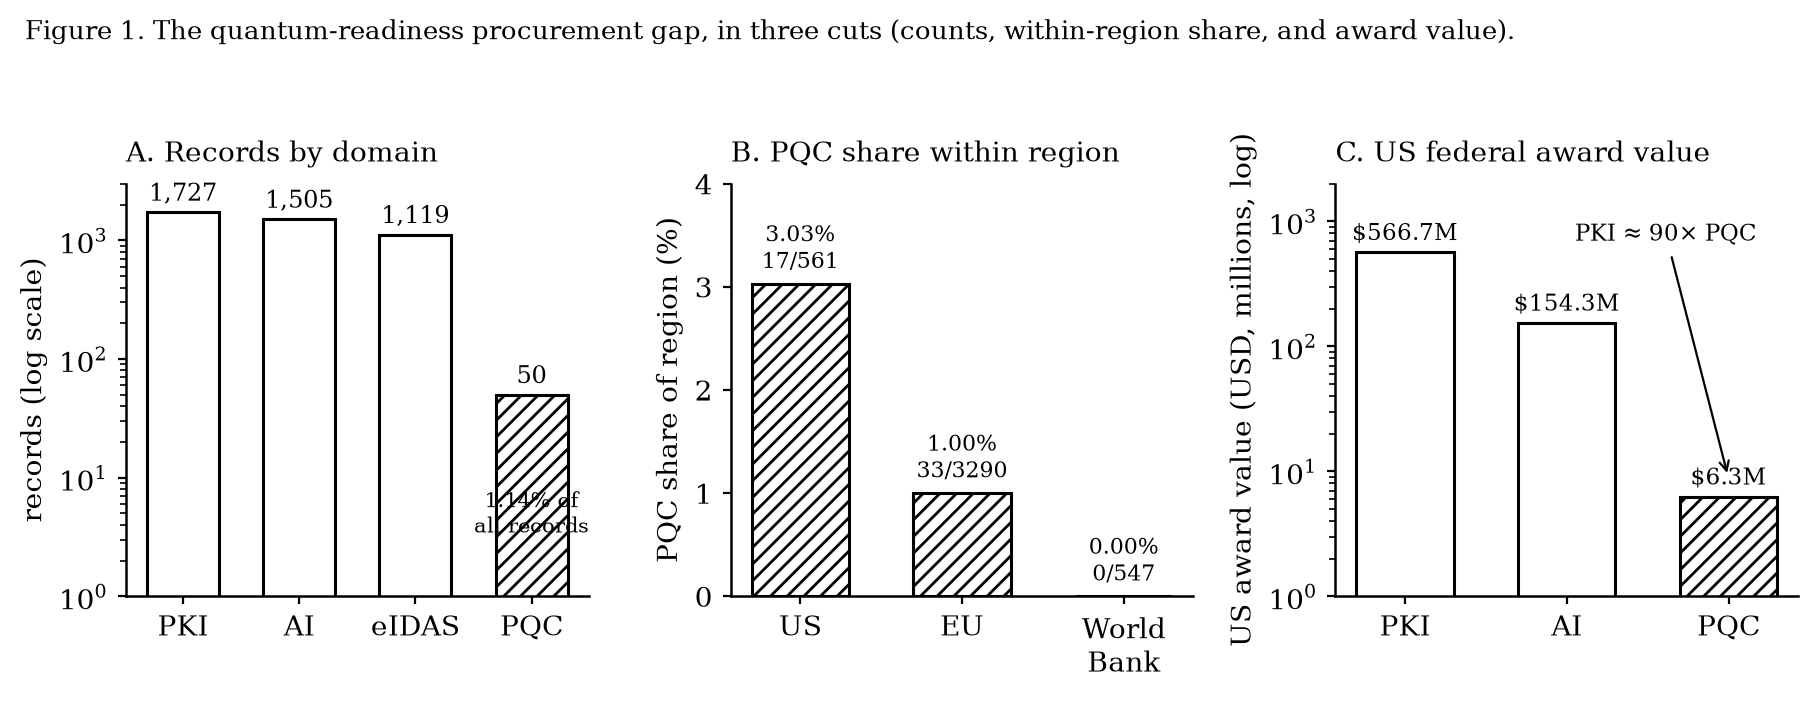
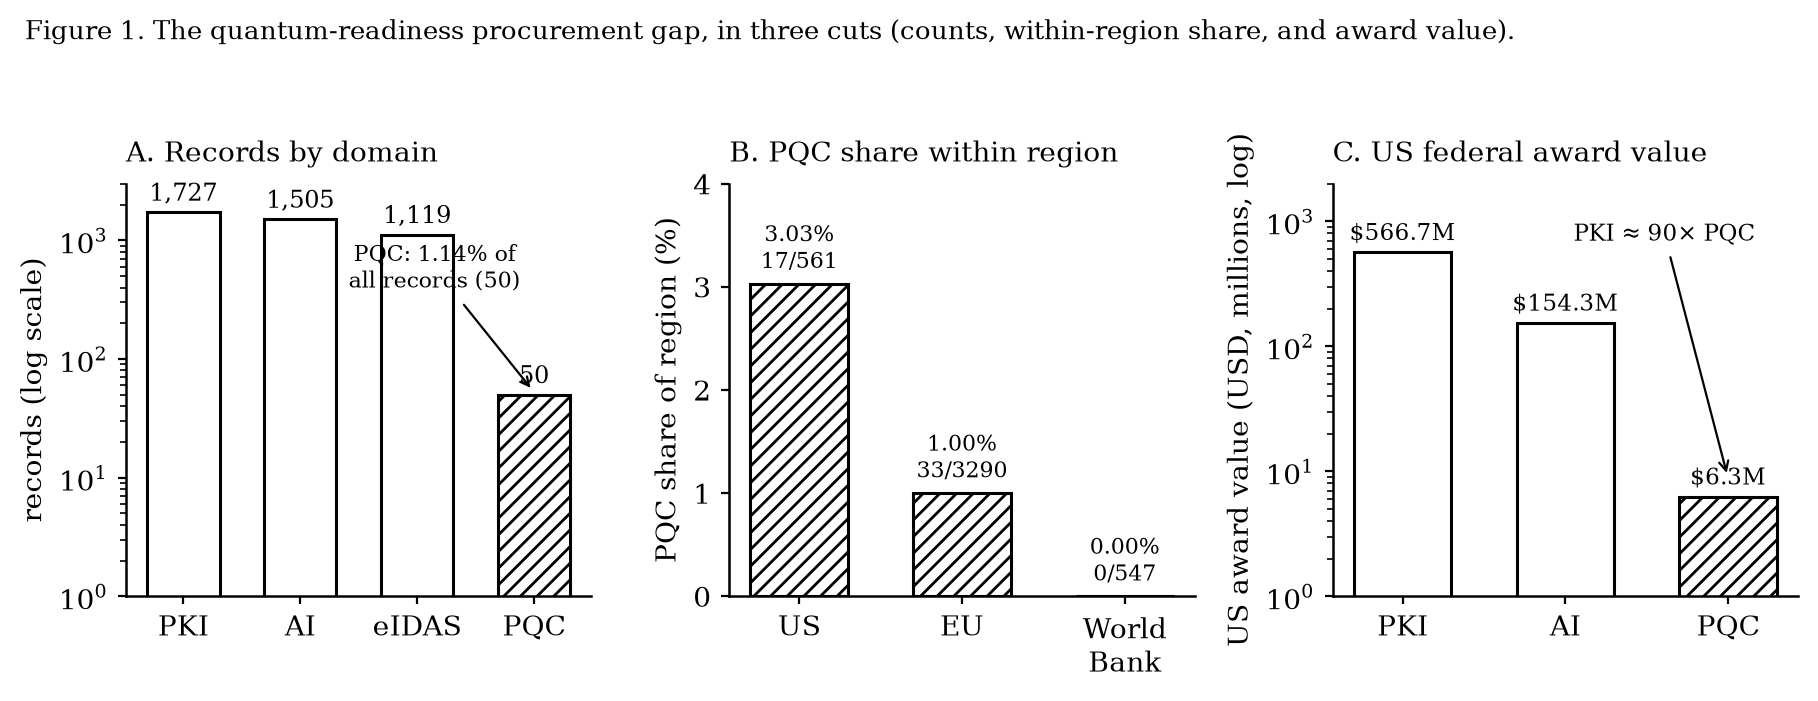
article v4: PQC precision audit (24 confirmed of 50), arithmetic fix, base-rate paragraph; IMRaD-referee revision

diff --git a/scripts/audit_pqc.py b/scripts/audit_pqc.py
@@ -1,0 +1,114 @@
+#!/usr/bin/env python3
+"""Precision audit of the PQC domain tag.
+
+A record is PQC-CONFIRMED if a genuine post-quantum term appears in its stored title or in
+the raw upstream payload it was derived from (joined by publication number for TED, by award
+id for USAspending). This is a conservative recount: records that matched a source full-text
+index but cannot be confirmed from retrievable text are reported separately as PQC-CANDIDATE.
+Writes data/consolidated/pqc-audit.json. No network.
+"""
+import glob
+import json
+import re
+from pathlib import Path
+
+ROOT = Path(__file__).resolve().parent.parent
+TERMS = [
+    "post-quantum", "post quantum", "postquantum", "quantum-safe", "quantum safe",
+    "quantum resistant", "quantum-resistant", "quantensicher", "quantensichere",
+    "ml-kem", "ml-dsa", "slh-dsa", "crystals-kyber", "kyber", "dilithium",
+    "crypto-agility", "crypto agility", "fips 203", "fips 204", "fips 205",
+    "pqc", "quantum cryptograph", "quantum key distribution", "qkd",
+    "quantum comput", "quantum threat", "quantum-vulnerable",
+]
+RE = re.compile("|".join(re.escape(t) for t in TERMS), re.I)
+
+
+def flatten(x, out):
+    if isinstance(x, dict):
+        for v in x.values():
+            flatten(v, out)
+    elif isinstance(x, list):
+        for v in x:
+            flatten(v, out)
+    elif x is not None:
+        out.append(str(x))
+
+
+def raw_text_index():
+    """publication-number/award-id -> concatenated raw text, from frozen raw payloads."""
+    idx = {}
+    for f in glob.glob(str(ROOT / "data/raw/ted-PQC-*/*.json")):
+        try:
+            doc = json.loads(Path(f).read_text())
+        except Exception:
+            continue
+        for n in doc.get("notices", []):
+            key = n.get("publication-number")
+            if not key:
+                continue
+            out = []
+            flatten(n, out)
+            idx[f"ted:{key}"] = " ".join(out)
+    for f in glob.glob(str(ROOT / "data/raw/usaspending-PQC-*/*.json")):
+        try:
+            doc = json.loads(Path(f).read_text())
+        except Exception:
+            continue
+        for aw in doc.get("results", []):
+            key = aw.get("Award ID")
+            if not key:
+                continue
+            out = []
+            flatten(aw, out)
+            idx[f"usa:{key}"] = " ".join(out)
+    return idx
+
+
+def main():
+    ds = json.loads((ROOT / "data/consolidated/dataset.json").read_text())
+    idx = raw_text_index()
+    confirmed = {"EU": 0, "US": 0}
+    candidate = {"EU": 0, "US": 0}
+    conf_titles = []
+    for r in ds.get("releases", []):
+        if "PQC" not in r.get("tt:domain", []):
+            continue
+        src = r.get("tt:source")
+        region = "EU" if src == "TED" else ("US" if src == "USAspending" else "other")
+        title = (r.get("tender") or {}).get("title", "")
+        ocid = r.get("ocid", "")
+        key = None
+        if src == "TED":
+            key = "ted:" + ocid.replace("ttpr-ted-", "")
+        elif src == "USAspending":
+            key = "usa:" + ocid.replace("ttpr-usa-", "")
+        raw = idx.get(key, "")
+        text = title + " " + raw
+        if RE.search(text):
+            confirmed[region] = confirmed.get(region, 0) + 1
+            if len(conf_titles) < 40:
+                conf_titles.append({"region": region, "title": title[:90]})
+        else:
+            candidate[region] = candidate.get(region, 0) + 1
+
+    total_conf = sum(confirmed.values())
+    total_cand = sum(candidate.values())
+    out = {
+        "pqc_matched_total": total_conf + total_cand,
+        "pqc_confirmed_total": total_conf,
+        "pqc_candidate_only_total": total_cand,
+        "confirmed_by_region": confirmed,
+        "candidate_only_by_region": candidate,
+        "method": "PQC-confirmed = a post-quantum term appears in the stored title or the raw "
+                  "upstream payload; PQC-candidate = matched a source full-text/keyword index but "
+                  "the retrievable text does not contain a confirming term.",
+        "confirmed_titles_sample": conf_titles,
+    }
+    (ROOT / "data/consolidated/pqc-audit.json").write_text(json.dumps(out, indent=1, ensure_ascii=False))
+    print(f"PQC matched={out['pqc_matched_total']} confirmed={total_conf} "
+          f"(EU {confirmed.get('EU',0)}, US {confirmed.get('US',0)}) candidate-only={total_cand}")
+
+
+if __name__ == "__main__":
+    main()

diff --git a/papers/quantum-readiness-procurement-gap-v4.md b/papers/quantum-readiness-procurement-gap-v4.md
@@ -1,0 +1,151 @@
+# The Quantum-Readiness Procurement Gap: government demand for post-quantum cryptography measured against artificial intelligence, public-key infrastructure and digital identity
+
+**Anton Sokolov**
+Tyche Institute, Tallinn, Estonia · ORCID 0000-0003-2452-7096 · [email redacted]
+
+*Draft v4, 2026-07-04. Dataset: Zenodo 10.5281/zenodo.21192405 (CC-BY-4.0) [@ttpo2026]. Observatory: https://procurement.eatf.eu*
+
+## Abstract
+
+Modern digital government rests on a stack of trust technologies: public-key infrastructure and the post-quantum cryptography that must succeed it, the digital identity that establishes who is authorised to act, and the artificial intelligence that increasingly makes the decisions in between. Governments have finalized the cryptographic standards for the post-quantum transition [@fips203; @fips204; @fips205] and have set formal goals for migrating away from quantum-vulnerable cryptography [@nsm10; @ombm2302; @eureco1101]. Whether that commitment to reinforce the foundation of the stack is yet visible in what governments buy is an open, and measurable, question. We assemble a live, provenance-verified corpus of 4,401 public-sector procurement records across four trust-technology domains (artificial intelligence, post-quantum cryptography, public-key infrastructure, and eIDAS or digital identity), drawn from four public procurement sources spanning 106 countries, and use it to measure the demand signal for post-quantum cryptography against the demand for adjacent trust technologies. We define the quantum-readiness procurement gap as the distance between that mandate and the observed procurement share, and we operationalise it as the ratio of post-quantum to public-key-infrastructure procurement volume. Post-quantum cryptography accounts for 50 of 4,401 records, or 1.14 percent of the corpus, against 1,727 records for public-key infrastructure and 1,505 for artificial intelligence, a post-quantum-to-public-key-infrastructure record ratio of about one to thirty-five. In United States federal award data, where monetary values are available, post-quantum cryptography accounts for USD 6.3 million against USD 566.7 million for public-key infrastructure, a ratio of about one to ninety. The gap holds across every region we measure and is widest in World Bank-financed procurement, where we observe no post-quantum records. We interpret this as a measurable distance between a maturing mandate and an as-yet-faint procurement signal, distinguish the competing explanations, and argue that the procurement record is an under-used and independently verifiable instrument for tracking the readiness of the state for the post-quantum transition, complementary to the deployment-side telemetry on which readiness is usually measured [@cloudflarepq2025; @pqreadiness2026]. To make the finding checkable, the corpus is built so that no record can enter it without a verifiable live source, and every figure reported here is recomputable from the published data.
+
+## 1. Introduction
+
+Governments are building digital services at speed, and everything they build stands on the same foundation: the cryptography that authenticates a machine or a document, the identity systems that decide who may act, and, increasingly, the automated systems that make decisions on the state's behalf. That foundation has a known weakness. The public-key cryptography at its base will be broken by a sufficiently capable quantum computer, and unlike an ordinary security flaw the response has been scheduled by policy rather than triggered by an incident. Governments have been told, with deadlines, to migrate to quantum-safe cryptography. This article asks a simple question about that instruction. When we look not at what governments say, and not at what is already deployed on the public web, but at what they are actually buying, is the foundation being reinforced? The answer, on the present evidence, is that it is almost not.
+
+A cryptographically relevant quantum computer would break the public-key cryptography that protects most digital communication and stored records today. The response of the standards community has moved from research to instruction. In August 2024 the United States National Institute of Standards and Technology finalized its first three post-quantum cryptographic standards, ML-KEM, ML-DSA and SLH-DSA, published as FIPS 203, 204 and 205 [@fips203; @fips204; @fips205]. United States executive guidance has set a policy goal of mitigating quantum risk as much as feasible by 2035 [@nsm10] and, through the Office of Management and Budget, has directed federal agencies to inventory and prioritize their cryptographic migration [@ombm2302], while the National Security Agency's Commercial National Security Algorithm Suite 2.0 sets earlier adoption milestones for national security systems. The European Union has issued a parallel call for a coordinated national transition roadmap [@eureco1101]. The threat model that motivates this urgency, often described as harvest-now-decrypt-later, assumes that an adversary can record encrypted traffic today and decrypt it once a quantum computer becomes available, which makes the effective deadline earlier than the arrival of the machine, and which recent work has begun to assess for practical feasibility [@blancoromero2026hndl].
+
+Policy of this kind is meant to change behaviour, and one of the most concrete behaviours a government exhibits is what it buys. Procurement notices and contract awards are public in most jurisdictions, are timestamped, and name the buyer and the object of purchase. They are, in principle, a leading indicator of whether a mandate has begun to move money, and public procurement microdata has been used to trace innovation and policy signals in exactly this way [@demircioglu2021procurement; @hickok2024aiproc]. Yet the post-quantum transition has so far been measured almost entirely from the deployment side, through telemetry on the fraction of encrypted connections that negotiate a post-quantum key exchange [@cloudflarepq2024; @cloudflarepq2025; @pqreadiness2026]. The procurement side, the purchasing and budget signal that precedes deployment, is comparatively unread, in part because it is fragmented across national systems and coding schemes, and in part because assembling a cross-domain, cross-jurisdiction view of it has historically required trusting aggregators whose provenance is opaque.
+
+We take the procurement record seriously as a measurement instrument. The advance of this article, stated in one sentence, is the first reproducible measurement of the quantum-readiness procurement gap: across four trust-technology domains and 106 countries, post-quantum cryptography is about 1.14 percent of visible government procurement and roughly one part in ninety of tagged United States federal award value, and that smallness survives cuts by region, by monetary value, and by buyer base. Two further contributions support that finding. We assemble and publish a live corpus of trust-technology procurement across the four domains, and we distinguish the competing explanations for the gap so that the finding is interpretable rather than merely reported. Underpinning all three is a design choice that we treat as a safeguard rather than a result: the corpus is built so that a record cannot exist without a verifiable live source, which is what allows a claim about an absence to be trusted at all.
+
+We are careful about what this measures. The corpus records demand signals, meaning what buyers advertised or awarded, and it is a curated coverage sample rather than a census of all government procurement. The finding is descriptive, and we make no causal claim linking mandate to procurement. We claim only that the visible, nameable, purchasable demand for post-quantum cryptography is, at the time of measurement, very small relative to the mandate and relative to adjacent trust-technology demand, and that this is worth measuring and watching.
+
+## 2. Background
+
+### 2.1 The four domains as a digital-trust stack
+
+We measure four domains together, and the choice is deliberate rather than a convenience sample of popular technologies. The four are the procurement-visible layers of a single digital-trust stack, the machinery through which a state constitutes and delegates trust in its digital operations. Public-key infrastructure is the incumbent cryptographic root: the certificates, key management and hardware security modules that let one system prove to another that a message, a document or a server is authentic. Post-quantum cryptography is the future of that same root: it is not a separate market but the migration that keeps the cryptographic base from collapsing once a quantum computer can break today's public-key algorithms, which is precisely why we read it against public-key infrastructure rather than in isolation. Digital identity, including the European eIDAS framework and its qualified trust services, is the layer above the root that establishes who, whether a person or an organisation, is authorised to act, and it rests on the cryptographic base beneath it. Artificial intelligence sits at the top: the systems that increasingly make or shape the decisions the state and its citizens must be able to trust and to hold to account.
+
+Three properties make these four a coherent object of measurement. They are interlocking rather than independent: the post-quantum migration is a migration of public-key infrastructure, digital identity depends on that infrastructure, and the identity and decision layers increasingly call on each other, so a weakness in one layer is a weakness in the stack. They are each, at the same time, the subject of an explicit and recent government-level policy instrument that drives procurement: the post-quantum standards and mandates discussed below, the European eIDAS 2.0 regulation and digital-identity-wallet programme for identity, and the emerging body of artificial-intelligence regulation and public-sector strategy for the decision layer [@hickok2024aiproc]. And they are each identifiable in the procurement record through classification codes and domain vocabulary, which makes the stack observable through the same instrument. Reading post-quantum cryptography against the other three layers is therefore not an arbitrary comparison. It asks whether a foundation that the identity and decision layers are being built upon at speed is itself being reinforced at a commensurate rate.
+
+### 2.2 Standards and mandates
+
+The post-quantum transition is unusual among cryptographic migrations in that its schedule is set by policy rather than by the discovery of a break in a deployed algorithm. The three finalized National Institute of Standards and Technology standards give implementers concrete targets [@fips203; @fips204; @fips205]. United States national-security guidance and the Office of Management and Budget convert those targets into goals, deadlines and inventory obligations for federal and national-security systems [@nsm10; @ombm2302], and a joint agency information sheet has set out the practical migration steps expected of critical-infrastructure owners [@cisaquantum2023]. Comparable coordination is under way in the European Union [@eureco1101]. The practical consequence is that, for a large class of public buyers, quantum-safe cryptography moved from optional to expected over the period our corpus covers.
+
+### 2.3 Procurement as a signal, and why it is hard to read
+
+Public procurement is one of the most complete administrative records a state produces, and in the European Union above-threshold tenders are published centrally and in structured form. Researchers have used procurement microdata to study innovation adoption and policy effects [@demircioglu2021procurement], to build open research databases of award notices [@foppa2023; @omari2025usproc], and to examine how governments acquire and govern emerging technologies such as artificial intelligence [@hickok2024aiproc; @johnson2024aiproc]. The signal is nonetheless hard to read across domains and borders for three reasons. Coding systems differ, so a purchase of cryptographic services carries a different classification code in the European Union than a comparable purchase in the United States. Trust-technology purchases hide inside broad information-technology categories rather than carrying a dedicated code, so a keyword layer is required to separate an artificial-intelligence contract from a generic software contract. And the completeness of the underlying feeds varies, so a naive cross-country count reflects the depth of each feed as much as the behaviour of each government. We address the first two problems with a full-text and code-based selection strategy, aligning records to the Open Contracting Data Standard [@ocds115], and we address the third by reporting coverage caveats alongside every cross-region comparison rather than presenting raw counts as a census.
+
+### 2.4 Trustworthy measurement
+
+The corpus that supports this article is the successor to an earlier project whose collection pipeline produced fabricated source records. That experience shaped the present design. Rather than ask readers to trust that the data was collected honestly, we built the collection so that a fabricated record cannot enter it, a property we describe in Section 3.2 and treat as a data-quality guarantee rather than a narrative. For a finding that rests on an absence, this matters: an absence is informative only if the reader can rule out that it is an artifact of a broken or dishonest pipeline.
+
+### 2.5 Related work and the gap this fills
+
+The readiness of the world for the post-quantum transition is, at present, measured almost entirely on the deployment side. Continuous telemetry on the share of encrypted web connections negotiating a post-quantum key exchange shows that adoption on the public Internet has moved from negligible to a substantial minority of connections over 2024 and 2025 [@cloudflarepq2024; @cloudflarepq2025], and independent measurement studies corroborate this trajectory across servers and clients [@pqreadiness2026]. This deployment lens is powerful but partial: it observes cryptography that is already running, it is weighted toward the large content and platform providers that dominate connection volume, and it is largely silent on the public sector, whose systems are often not exposed as public web endpoints and whose migration is procured rather than pushed. The procurement lens we develop here is the complement. It observes a purchasing and budget signal that precedes deployment, it is weighted toward public buyers by construction, and it can be read for cryptography that has been ordered but not yet fielded. To our knowledge no prior work measures post-quantum readiness through the procurement record, nor places it against the demand for the adjacent trust technologies. Relative to prior procurement-microdata research, which is typically single-source and single-domain [@foppa2023; @omari2025usproc; @johnson2024aiproc], this corpus is live, provenance-verified, cross-domain and cross-jurisdiction, and the anti-fabrication construction is, we believe, novel for a procurement dataset.
+
+## 3. Data and methods
+
+### 3.1 Sources and scope
+
+The corpus draws on four public procurement sources. From the European Union we harvest Tenders Electronic Daily, the central publication venue for above-threshold notices across the member states, through its version 3 application programming interface. From the United States we harvest federal award data from USAspending.gov. From the United Kingdom we harvest Contracts Finder and the Find a Tender Service. For the wider world we harvest World Bank procurement notices, which cover procurement financed by the Bank across a large set of borrower countries. Each source is public and carries an open or reuse-permitting licence, recorded per record and preserved in the aggregate release under a Creative Commons Attribution licence.
+
+We tag each record to one or more of four domains: artificial intelligence, post-quantum cryptography, public-key infrastructure, and eIDAS or digital identity. For domains where a coding system helps, we use only classification codes that we verified return real notices. For domains that are keyword-dominant, including post-quantum cryptography, we query source full-text indices directly for domain terms, which finds relevant notices regardless of the language of the notice. The post-quantum term set includes *post-quantum*, *post quantum*, *quantum-safe*, *quantum resistant*, *ML-KEM*, and *FIPS 203*, among others; the full selection strategy for all four domains is published with the corpus. For records selected through a source full-text index, the stored classification-code field records the source's own coding-scheme hint rather than the matched term, so the true basis of a full-text selection is the query and not that stored code; Section 4.2 audits the post-quantum tag against the retrievable text on this account.
+
+### 3.2 Anti-fabrication by construction
+
+A record enters the corpus only if a deterministic harvest script received a live successful response from a listed source during the harvest run. There is no manual insertion path, and no language model participates in the harvest loop. Every record carries four provenance fields: the source endpoint, the fetch timestamp, the observed response status, and a SHA-256 hash of the raw upstream payload from which the record was derived. A validator rejects, at write time, any record that lacks a provenance field, that carries a future date, that names a placeholder host, or that carries a classification code outside the verified set. Records are deduplicated across harvest runs by their stable identifier. A single analysis script computes every statistic reported in this article from the committed records, so that any reported figure can be recomputed and no figure can be asserted without the records behind it. The full pipeline is open and free of third-party dependencies. Because a record cannot exist without a verifiable live source, the small post-quantum count is not the residue of a filter that silently discarded post-quantum records; it is what the four listed sources returned.
+
+### 3.3 What the corpus measures, and what it does not
+
+The corpus measures the visible demand signal, meaning notices and awards that a buyer published or made, tagged to a trust-technology domain. It is a curated coverage sample. The European Union source is the deepest and is close to complete for above-threshold tenders, which is why European member states dominate the country ranking. The United States and United Kingdom sources are keyword-sparse in the current build and undercount relative to the European Union. The World Bank source reflects development-finance procurement rather than general government procurement. Monetary values are available only for the United States award source. These properties bound our claims: we report within-source and within-region shares, we compare like with like, and we treat every cross-region comparison as a comparison of visible procurement rather than of total national spend.
+
+## 4. Results
+
+### 4.1 The four-domain demand picture
+
+The corpus holds 4,401 unique records spanning 106 countries. Table 1 gives the distribution across domains and regions. Public-key infrastructure is the largest domain with 1,727 records, ahead of artificial intelligence with 1,505 and eIDAS or digital identity with 1,119. Post-quantum cryptography is the smallest by a wide margin, with 50 records. Grouping the three cryptography-and-identity domains together, security and identity procurement accounts for 2,896 records against 1,505 for artificial intelligence, so the trust-infrastructure domains together outweigh artificial intelligence in the visible record by close to two to one.
+
+**Table 1. Records by region and domain.** Regional totals are shaped by source depth (Section 3.3). A dagger (†) marks a coverage zero, where the region is thinly covered, as distinct from a value that is simply small; the United States eIDAS zero is a genuine zero within an otherwise well-populated source, whereas the United Kingdom and World Bank post-quantum zeros are coverage zeros.
+
+| Region | AI | PKI | PQC | eIDAS | Total |
+|:-------|---:|----:|----:|------:|------:|
+| EU | 1,200 | 1,094 | 33 | 963 | 3,290 |
+| US | 73 | 471 | 17 | 0 | 561 |
+| Global (World Bank) | 230 | 162 | 0† | 155 | 547 |
+| UK | 2 | 0† | 0† | 1 | 3 |
+| Total | 1,505 | 1,727 | 50 | 1,119 | 4,401 |
+
+The regional totals reflect the near-completeness of the Tenders Electronic Daily feed rather than a claim that European governments buy the most trust technology in absolute terms. The comparison we draw below is within region wherever possible, which neutralizes that source-depth effect.
+
+### 4.2 The quantum-readiness procurement gap
+
+Figure 1 shows the gap in the three independent cuts on which our claim rests. Post-quantum cryptography accounts for 50 of 4,401 records, or 1.14 percent of the corpus (panel A), a post-quantum-to-public-key-infrastructure record ratio of about one to thirty-five. The share is small in every region we measure and does not depend on the source-depth caveat, because it is a within-region ratio (panel B): 17 of 561 records in the United States, or 3.03 percent; 33 of 3,290 records in the European Union, or 1.0 percent; and 0 of 547 records in World Bank-financed procurement. The United States share, though the highest of the three, still places post-quantum cryptography an order of magnitude below public-key infrastructure within the same source and jurisdiction.
+
+![**Figure 1. The quantum-readiness procurement gap, in three cuts.** Post-quantum cryptography is the hatched outlier in each panel. (A) Records by domain, log scale. (B) Post-quantum share within each region. (C) United States federal award value, log scale, with the public-key-infrastructure to post-quantum ratio annotated. Every value is read from the published analysis file.](../figures/figure1-pqc-gap.pdf)
+
+The monetary comparison, available for the United States award source, is starker than the record count (panel C). Post-quantum cryptography accounts for USD 6.3 million of tagged federal award value, against USD 566.7 million for public-key infrastructure and USD 154.3 million for artificial intelligence. Public-key infrastructure, the incumbent cryptographic infrastructure that the post-quantum transition is meant to succeed, attracts roughly ninety times the award value of its designated successor in the same records. Table 2 states the three cuts with their explicit denominators.
+
+**Table 2. The quantum-readiness gap in three cuts.**
+
+| Cut | Post-quantum | Comparator | Ratio |
+|:----|:-------------|:-----------|:------|
+| Corpus record share | 50 / 4,401 (1.14%) | PKI 1,727 | ≈ 1 : 35 |
+| Within-region share (US) | 17 / 561 (3.03%) | PKI 471 (US) | ≈ 1 : 28 |
+| Within-region share (EU) | 33 / 3,290 (1.0%) | PKI 1,094 (EU) | ≈ 1 : 33 |
+| US federal award value | USD 6.3 M | PKI USD 566.7 M | ≈ 1 : 90 |
+
+A finding that survives the overall share, the within-region ratio, and the monetary cut is unlikely to be an artifact of any single measurement choice. The reader can reproduce each cut directly from the published values: the corpus share is 50 / 4,401 = 1.14 percent; the United States share is 17 / 561 = 3.03 percent; the European Union share is 33 / 3,290 = 1.0 percent; and the value ratio is 566,664,128 / 6,269,846 = 90.4. Each of these is computed by the published analysis script from the committed records.
+
+Because the finding rests on the smallness of the post-quantum count, we audited that count directly. Of the 50 post-quantum records, a genuine post-quantum term (for example post-quantum, quantum-safe, ML-KEM, or FIPS 203) appears in the stored title or the retrievable raw payload for 24: all 17 of the United States records, and 7 of the 33 European Union records. The 26 unconfirmed records are European Union notices that matched the Tenders Electronic Daily full-text index, which searches the complete notice document, but whose retrievable fields do not contain a confirming term, so we cannot verify them from the stored data and treat them as candidate rather than confirmed matches; the audit is published as `pqc-audit.json`. This exposure runs in one direction only. On the stricter confirmed count, post-quantum cryptography is 24 of 4,401 records, or 0.55 percent, which places it further below the adjacent domains, not closer. Whether measured by the matched tag or the confirmed subset, the post-quantum signal sits an order of magnitude or more below public-key infrastructure in every cut.
+
+### 4.3 Who is buying post-quantum cryptography
+
+The 50 post-quantum records are not evenly distributed, and the early movers are informative. In the European Union, the most frequent post-quantum buyer is Poland's Centralny Osrodek Informatyki, the state information-technology centre, followed by the Netherlands Enterprise Agency and the Polish National Centre for Research and Development, with further records from a German research university, a Croatian public institute, and the European Cybersecurity Competence Centre. In United States data the Department of Defense is the most frequent post-quantum buyer, consistent with the fact that national-security systems carry the earliest migration milestones, and one of its awards names the harvest-now-decrypt-later threat explicitly. The pattern is one of a small set of technically sophisticated, mandate-exposed public bodies moving first, rather than a broad base of buyers. Each named buyer resolves to one or more specific records in the published dataset, so these qualitative claims meet the same verification bar as the counts.
+
+By contrast, the most frequent buyers in the large domains are broad and operational. In public-key infrastructure they are interior ministries and defence, homeland-security and state departments. In artificial intelligence they include a German statutory health insurer, defence, an agricultural university, and the European Commission's communications-technology directorate. The contrast between a narrow, specialist post-quantum buyer base and a broad, operational buyer base for the incumbent domains is itself part of the finding.
+
+### 4.4 Trajectory
+
+The dated portion of the corpus clusters in recent years, with 376 records dated 2022, 344 in 2023, 496 in 2024, 1,191 in 2025, and 886 in the year-to-date portion of 2026; the dated records sum to 3,293, with the remainder either undated in the source or falling outside this window. We caution that yearly totals are shaped by the publication windows of the sources and by our collection window, so the rise should be read as a coverage-and-activity signal rather than as a precise growth rate. Within that caveat, the record is consistent with rising overall trust-technology procurement over the period in which the post-quantum mandate matured, which makes the flatness of the post-quantum signal against that rising baseline the more notable.
+
+## 5. Discussion
+
+### 5.1 Competing explanations for the gap
+
+A near-absence in a procurement record admits several explanations, and honest measurement means naming them.
+
+The first is a genuine lag. Mandates with milestones through the early-to-mid 2030s may simply not have moved procurement money yet, with buyers still in the inventory-and-planning phase that the executive guidance prescribes before purchasing [@ombm2302; @cisaquantum2023]. Under this reading the gap is real and the procurement signal is an early and truthful indicator that migration has not yet reached the buying stage at scale.
+
+The second is procurement invisibility. Post-quantum migration may be happening inside contracts that are not labelled as post-quantum, for example as a routine feature of a broader information-security services contract, a software update, or a hardware refresh, in which case the demand exists but does not surface as a distinctly nameable procurement. Our keyword and full-text approach would miss such embedded demand. This explanation reduces the strength of the absence claim, and we flag it prominently. It does not, however, dissolve the finding, because the same embedding argument applies to public-key infrastructure and artificial intelligence, which nonetheless surface in large numbers, so the differential visibility of post-quantum cryptography relative to adjacent domains still requires explanation.
+
+The third is that post-quantum cryptography is not yet a tracked category in some procurement systems, which is the most plausible reading of the zero we observe in World Bank-financed procurement, where a development-finance buyer may not yet classify or require quantum-safe cryptography at all. Under this reading the zero is informative about the diffusion of the mandate beyond the standard-setting jurisdictions rather than about activity within them.
+
+These explanations are not mutually exclusive. The measurement stands regardless of which combination holds: the visible, labelled, purchasable demand for post-quantum cryptography is very small relative to both the mandate and the adjacent domains, and the procurement record makes that smallness precise and watchable.
+
+Is the smallness itself surprising, or is it simply what any recently standardised technology category looks like in its first years? Two anchors argue that it is more than a young-category base rate. The first is the deployment side of the same transition. Continuous telemetry reports that post-quantum key exchange moved over 2024 and 2025 from a negligible share to a substantial minority, in some measurements a near-majority, of encrypted web connections [@cloudflarepq2024; @cloudflarepq2025], so the technology is not merely standardised but already in wide production use on the public Internet. Against that deployment baseline, a public-sector procurement share near half a percent is not the normal lag of an unproven technology; it is a divergence between where quantum-safe cryptography is being run and where the state is buying it. The second anchor is the artificial-intelligence comparison inside our own corpus. Artificial intelligence has no finalized government-mandated migration deadline of the kind post-quantum cryptography now carries, yet it accounts for 1,505 records to post-quantum cryptography's 50. A mandated transition trailing an unmandated one by a factor of thirty in the procurement record is the opposite of what a simple mandate-drives-demand model would predict, which is what makes the gap worth naming rather than filing under expected early-stage quiet. We do not claim a null model that fixes the expected share precisely; we claim that the two available reference points, deployment uptake and adjacent-domain demand, both place the observed post-quantum procurement share well below where a maturing mandate would lead one to expect it.
+
+### 5.2 Policy implications, by explanation and actor
+
+Each explanation maps to a different actor and a different corrective, which is what makes the distinction worth drawing. If the gap reflects a genuine lag, the corrective sits with the bodies that own the migration timeline: an interim procurement milestone from the Office of Management and Budget or the European coordination process, requiring agencies to report quantum-safe purchasing and not only inventory status, would convert a distant deadline into a near-term buying obligation and make the readiness signal actionable well before the deadline. If the gap reflects procurement invisibility, the corrective sits with contracting authorities: adding an explicit cryptographic-requirement line item, or a post-quantum classification tag, to procurement notices would make embedded quantum-safe demand auditable and therefore governable. If the gap reflects non-diffusion beyond the standard-setting jurisdictions, the corrective sits with the multilateral development banks and standards bodies: adopting a post-quantum requirement tag in development-finance procurement would carry the mandate into the borrower countries where our corpus currently shows a zero. In every case, making the procurement signal continuously observable, which the live observatory does, gives policy-makers and oversight bodies an instrument for tracking readiness that does not depend on self-reported migration status, and that complements the deployment-side telemetry [@cloudflarepq2025] on which readiness has until now been measured.
+
+## 6. Limitations
+
+Coverage is a curated demand-signal sample and not a population census. The European Union source is the deepest, and the United States and United Kingdom sources undercount, so absolute cross-region comparisons are comparisons of visible procurement rather than of total spend, and our central within-region ratios are chosen precisely to avoid that pitfall. Domain tagging uses keyword and code matching and can both miss embedded demand, as Section 5.1 discusses, and, in principle, over-match on incidental mentions, though our inspection of the buyer base for each domain did not surface over-matching at a level that would change the finding. Monetary values exist only for the United States source. The corpus is a snapshot at the time of measurement and is designed to be re-harvested, so the figures here describe a dated build and will move as coverage deepens. Procurement is a leading and partial indicator of migration and not a measure of migration itself, and we make no causal claim linking mandate to procurement.
+
+## 7. Conclusion
+
+We set out to measure whether the maturing mandate for post-quantum cryptography is yet visible in what governments buy. Using a live, provenance-verified corpus of 4,401 trust-technology procurement records across four domains and 106 countries, we find that post-quantum cryptography accounts for 1.14 percent of the corpus and for roughly one part in ninety of tagged United States federal award value, and that the smallness of the signal holds across every region and value measure we examine, against a backdrop of large and rising procurement of the adjacent trust technologies. We call this the quantum-readiness procurement gap. It is a descriptive finding, it admits several explanations that further work can distinguish, and it rests on a measurement whose provenance the reader can verify. Where deployment telemetry shows quantum-safe cryptography already reaching a substantial minority of public web connections, the procurement record shows the public sector's demand for it still near the floor, and on the present evidence that record shows a mandate that has not yet reached the point of purchase.
+
+## Data and code availability
+
+The full corpus is published on Zenodo under a Creative Commons Attribution 4.0 licence, concept DOI 10.5281/zenodo.21192405, which resolves to the latest version [@ttpo2026]. The harvesting, validation, consolidation and analysis pipeline, the source ledger, the post-quantum audit, and this article's figure are open at https://github.com/tyche-dev/trust-tech-procurement-observatory. The live observatory, from which every figure in this article can be reproduced, is at https://procurement.eatf.eu.
+
+Collection, validation and analysis were carried out by the single author. Because the central claim is an absence, we have tried to make the work checkable rather than trusted: the pipeline is open and deterministic, every record carries the run-evidence of its own fetch, and any reader can re-harvest the sources and recompute every figure independently. We invite that replication as the intended check on the result.
+
+## Competing interests
+
+The author declares no competing interests.
+
+## References